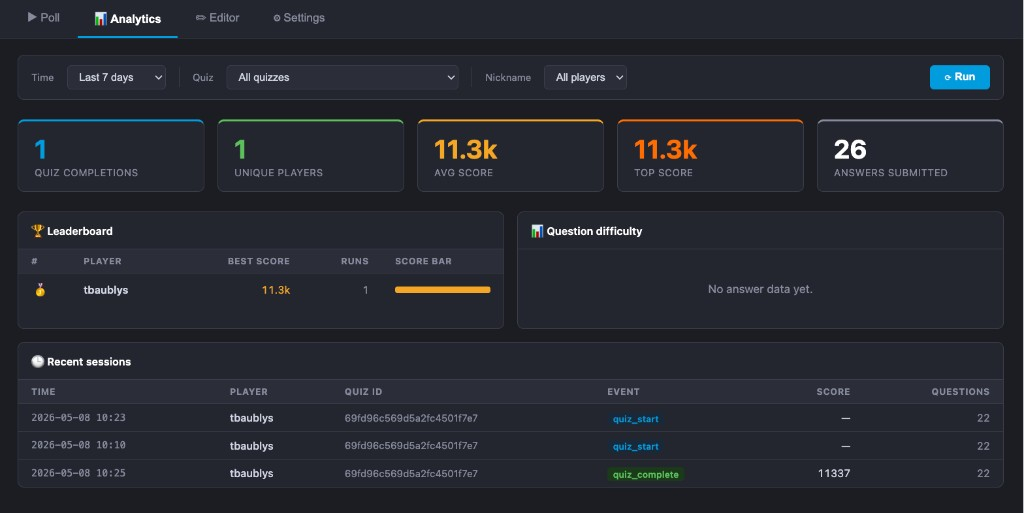
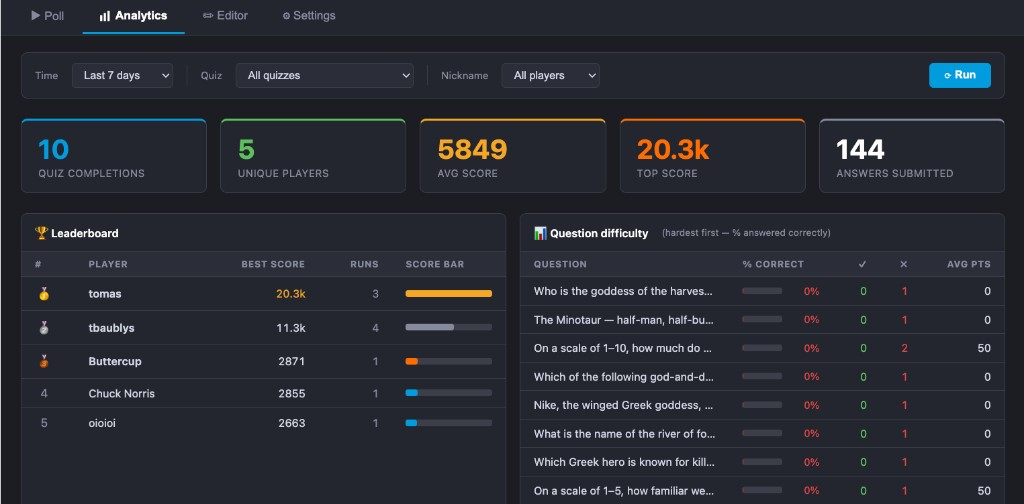
docs: replace placeholder screenshots with real app screenshots (v1.2.0)

diff --git a/README.md b/README.md
@@ -2,7 +2,7 @@
 
 <img src="src/package/appserver/static/appIcon_128.png" alt="Pony Poll app icon" width="96" />
 
-> **v1.1.6** · Splunk Enterprise & Cloud ≥ 8.x · AppInspect approved ✓ · React 16 · KV Store
+> **v1.2.0** · Splunk Enterprise & Cloud ≥ 8.x · AppInspect approved ✓ · React 16 · KV Store
 
 Pony Poll is a live interactive quiz app that runs entirely inside Splunk. Participants join through the Splunk Web UI, enter a nickname, and answer timed questions with instant scoring and feedback. The built-in editor supports five question types (single choice, multiple choice, yes/no, free text, and slider), a quiz library synced from GitHub, and one-click JSON import/export. Every answer and quiz session is indexed as a native Splunk event, and the Analytics tab delivers a real-time leaderboard and per-question difficulty breakdown. Installation: download the tarball from GitHub Releases and upload it through **Apps → Manage Apps** in Splunk Web.
 
@@ -31,17 +31,31 @@ Install app → create questions in the Editor → share the **`/play`** URL wit
 
 ## Screenshots
 
-| Start screen | Live question | Answer revealed |
-|---|---|---|
-| ![Start — Buttercup mascot and nickname input](docs/screenshots/start.png) | ![Question — 4 choices and countdown timer](docs/screenshots/question.png) | ![Reveal — correct answer highlighted, points awarded](docs/screenshots/reveal.png) |
+**Poll — start screen**
 
-**Editor**
+![Start screen — Buttercup mascot, quiz title, and nickname input](docs/screenshots/start.png)
 
-![Editor — quiz selector, question list, WYSIWYG form with type buttons and answer options](docs/screenshots/editor.png)
+**Poll — live question (slider type)**
+
+![Slider question — numeric range with countdown timer](docs/screenshots/question-slider.png)
+
+**Poll — answer revealed (multi-select)**
+
+![Multi-select answer reveal — correct options highlighted in green, points awarded](docs/screenshots/question-reveal.png)
+
+**Editor — question WYSIWYG**
+
+| Single-answer with options | Active quiz indicator |
+|---|---|
+| ![Editor — AI Toolkit quiz, single-answer question with 4 options](docs/screenshots/editor-options.png) | ![Editor — Greek Mythology quiz active, question list and toolbar](docs/screenshots/editor.png) |
 
 **Analytics**
 
-![Analytics — KPI scorecards, leaderboard ranked by best score, question difficulty bars, recent sessions](docs/screenshots/analytics.png)
+![Analytics — KPI scorecards, leaderboard ranked by best score, question difficulty table](docs/screenshots/analytics.png)
+
+**Settings**
+
+![Settings — active quiz selector, random subset control, default view, poll title](docs/screenshots/settings.png)
 
 ---
 
@@ -636,7 +650,7 @@ The exported JSON is an array of question objects. Below is the full schema with
 
 The built-in **📊 Analytics** tab gives you a live view of quiz results without writing any SPL.
 
-![Analytics — KPI scorecards, leaderboard, question difficulty bars](docs/screenshots/analytics.png)
+![Analytics — KPI scorecards, leaderboard, question difficulty table](docs/screenshots/analytics.png)
 
 ### Filters
 